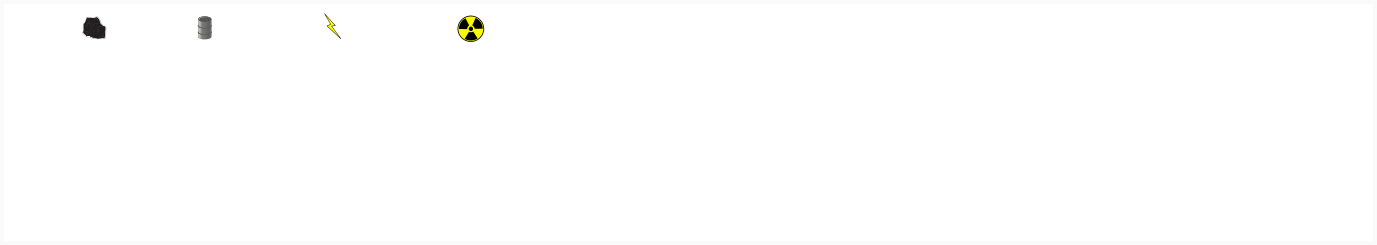
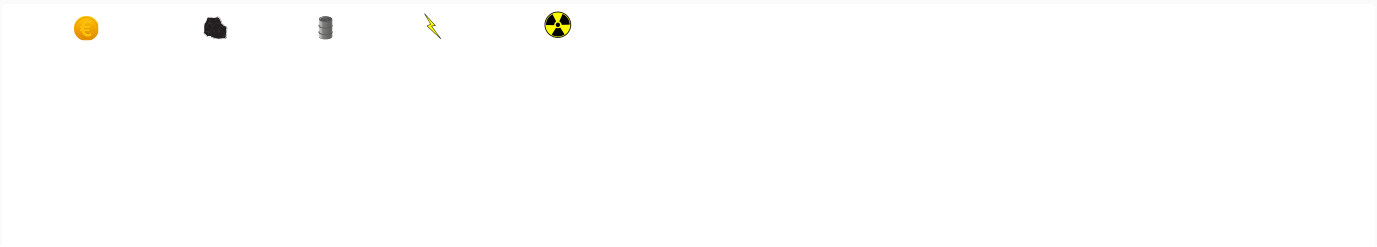
put gold into the UI

diff --git a/core/src/com/TeamHEC/LocomotionCommotion/Game_Actors/Game_ResourcesManager.java b/core/src/com/TeamHEC/LocomotionCommotion/Game_Actors/Game_ResourcesManager.java
@@ -28,7 +28,7 @@ public class Game_ResourcesManager {
 	public static Game_card_CardToggleBtn game_card_togglebtn;
 	public static boolean resourcebarexpanded = false;
 	public static int  stagestart, resourceActors, expandedheight= 40;
-	public static Label  coalQuant, oilQuant, electricityQuant, nuclearQuant, cardQuant;
+	public static Label  goldQuant, coalQuant, oilQuant, electricityQuant, nuclearQuant, cardQuant;
 	
 	
 	public Game_ResourcesManager(){		}
@@ -62,25 +62,29 @@ public class Game_ResourcesManager {
 
 
 		
+		goldQuant= new Label(null,style);
+		goldQuant.setX(100);
+		goldQuant.setY(expandedheight);
+		goldQuant.setColor(0,0,0,1);
 		
 		coalQuant= new Label(null,style);
-		coalQuant.setX(130);
+		coalQuant.setX(240);
 		coalQuant.setY(expandedheight);
 		coalQuant.setColor(0,0,0,1);
 		
 		
 		oilQuant= new Label(null,style);
-		oilQuant.setX(240);
+		oilQuant.setX(350);
 		oilQuant.setY(expandedheight);
 		oilQuant.setColor(0,0,0,1);
 
 		electricityQuant= new Label(null,style);
-		electricityQuant.setX(380);
+		electricityQuant.setX(450);
 		electricityQuant.setY(expandedheight);
 		electricityQuant.setColor(0,0,0,1);
 		
 		nuclearQuant= new Label(null,style);
-		nuclearQuant.setX(520);
+		nuclearQuant.setX(590);
 		nuclearQuant.setY(expandedheight);
 		nuclearQuant.setColor(0,0,0,1);
 		
@@ -88,8 +92,10 @@ public class Game_ResourcesManager {
 		cardQuant.setX(920);
 		cardQuant.setY(expandedheight);
 		cardQuant.setColor(0,0,0,1);
+		
 		refreshResources();
 		
+		visibleActors.add(goldQuant);
 		visibleActors.add(coalQuant);
 		visibleActors.add(oilQuant);
 		visibleActors.add(electricityQuant);
@@ -115,6 +121,7 @@ public class Game_ResourcesManager {
 	}
 	
 	public static void refreshResources(){
+		goldQuant.setText(""+GameScreen.gold);
 		coalQuant.setText(""+GameScreen.coal);
 		oilQuant.setText(""+GameScreen.oil);
 		electricityQuant.setText(""+GameScreen.electricity);
@@ -123,6 +130,7 @@ public class Game_ResourcesManager {
 	}
 	
 	public static void setResourcesHeight(float height){
+		goldQuant.setY(height);
 		coalQuant.setY(height);
 		oilQuant.setY(height);
 		electricityQuant.setY(height);

diff --git a/core/src/com/TeamHEC/LocomotionCommotion/Screens/GameScreen.java b/core/src/com/TeamHEC/LocomotionCommotion/Screens/GameScreen.java
@@ -43,7 +43,7 @@ public class GameScreen implements Screen {
 	private static Stage stage;
 	public static SpriteBatch sb;
 	public OrthographicCamera camera;
-	public static int coal, oil, electricity, nuclear,cards,player1score=1000,player2score;
+	public static int coal, oil, electricity, nuclear,cards, player1score=1000, player2score, gold = 1000;
 	public static String player1name ="Vladimir", player2name ="Caleb";
 
 	public static void create(){

diff --git a/core/src/com/TeamHEC/LocomotionCommotion/Game_Actors/Game_CardHandManager.java b/core/src/com/TeamHEC/LocomotionCommotion/Game_Actors/Game_CardHandManager.java
@@ -85,7 +85,6 @@ public class Game_CardHandManager {
 			//READY FOR IMPLEMENTING CARD - NEEDS AN OWNER (A PLAYER TO ADD THE RESOURCES TO)
 			cards.get(cardNum-1).getCard().implementCard();
 			Game_ResourcesManager.refreshResources();
-			System.out.println("pass-"+cardNum+" "+numberofcards+cards);
 			if (cardNum<numberofcards){
 				for(int i=cardNum-1;i<numberofcards-1;i++){
 					cards.get(i).setTexture(cards.get(i+1).getTexture());

diff --git a/core/src/com/TeamHEC/LocomotionCommotion/Game_Actors/Game_card_UseCardBtn.java b/core/src/com/TeamHEC/LocomotionCommotion/Game_Actors/Game_card_UseCardBtn.java
@@ -48,7 +48,6 @@ public class Game_card_UseCardBtn extends Actor {
 	@Override
 	public void act(float delta){
 		if(started){
-			System.out.println(Game_CardHandManager.selectedCard);
 			Game_CardHandManager.useCard(Game_CardHandManager.selectedCard);
 			started= false;
 			}

diff --git a/core/src/com/TeamHEC/LocomotionCommotion/Card/GoldCard.java b/core/src/com/TeamHEC/LocomotionCommotion/Card/GoldCard.java
@@ -28,7 +28,7 @@ public class GoldCard extends Card{
 	public void implementCard()
 	{
 		//getOwner().addGold(100);
-		//GameScreen.gold+=100;
+		GameScreen.gold+=100;
 		// Need to destroy card instance here or something
 	}
 }
